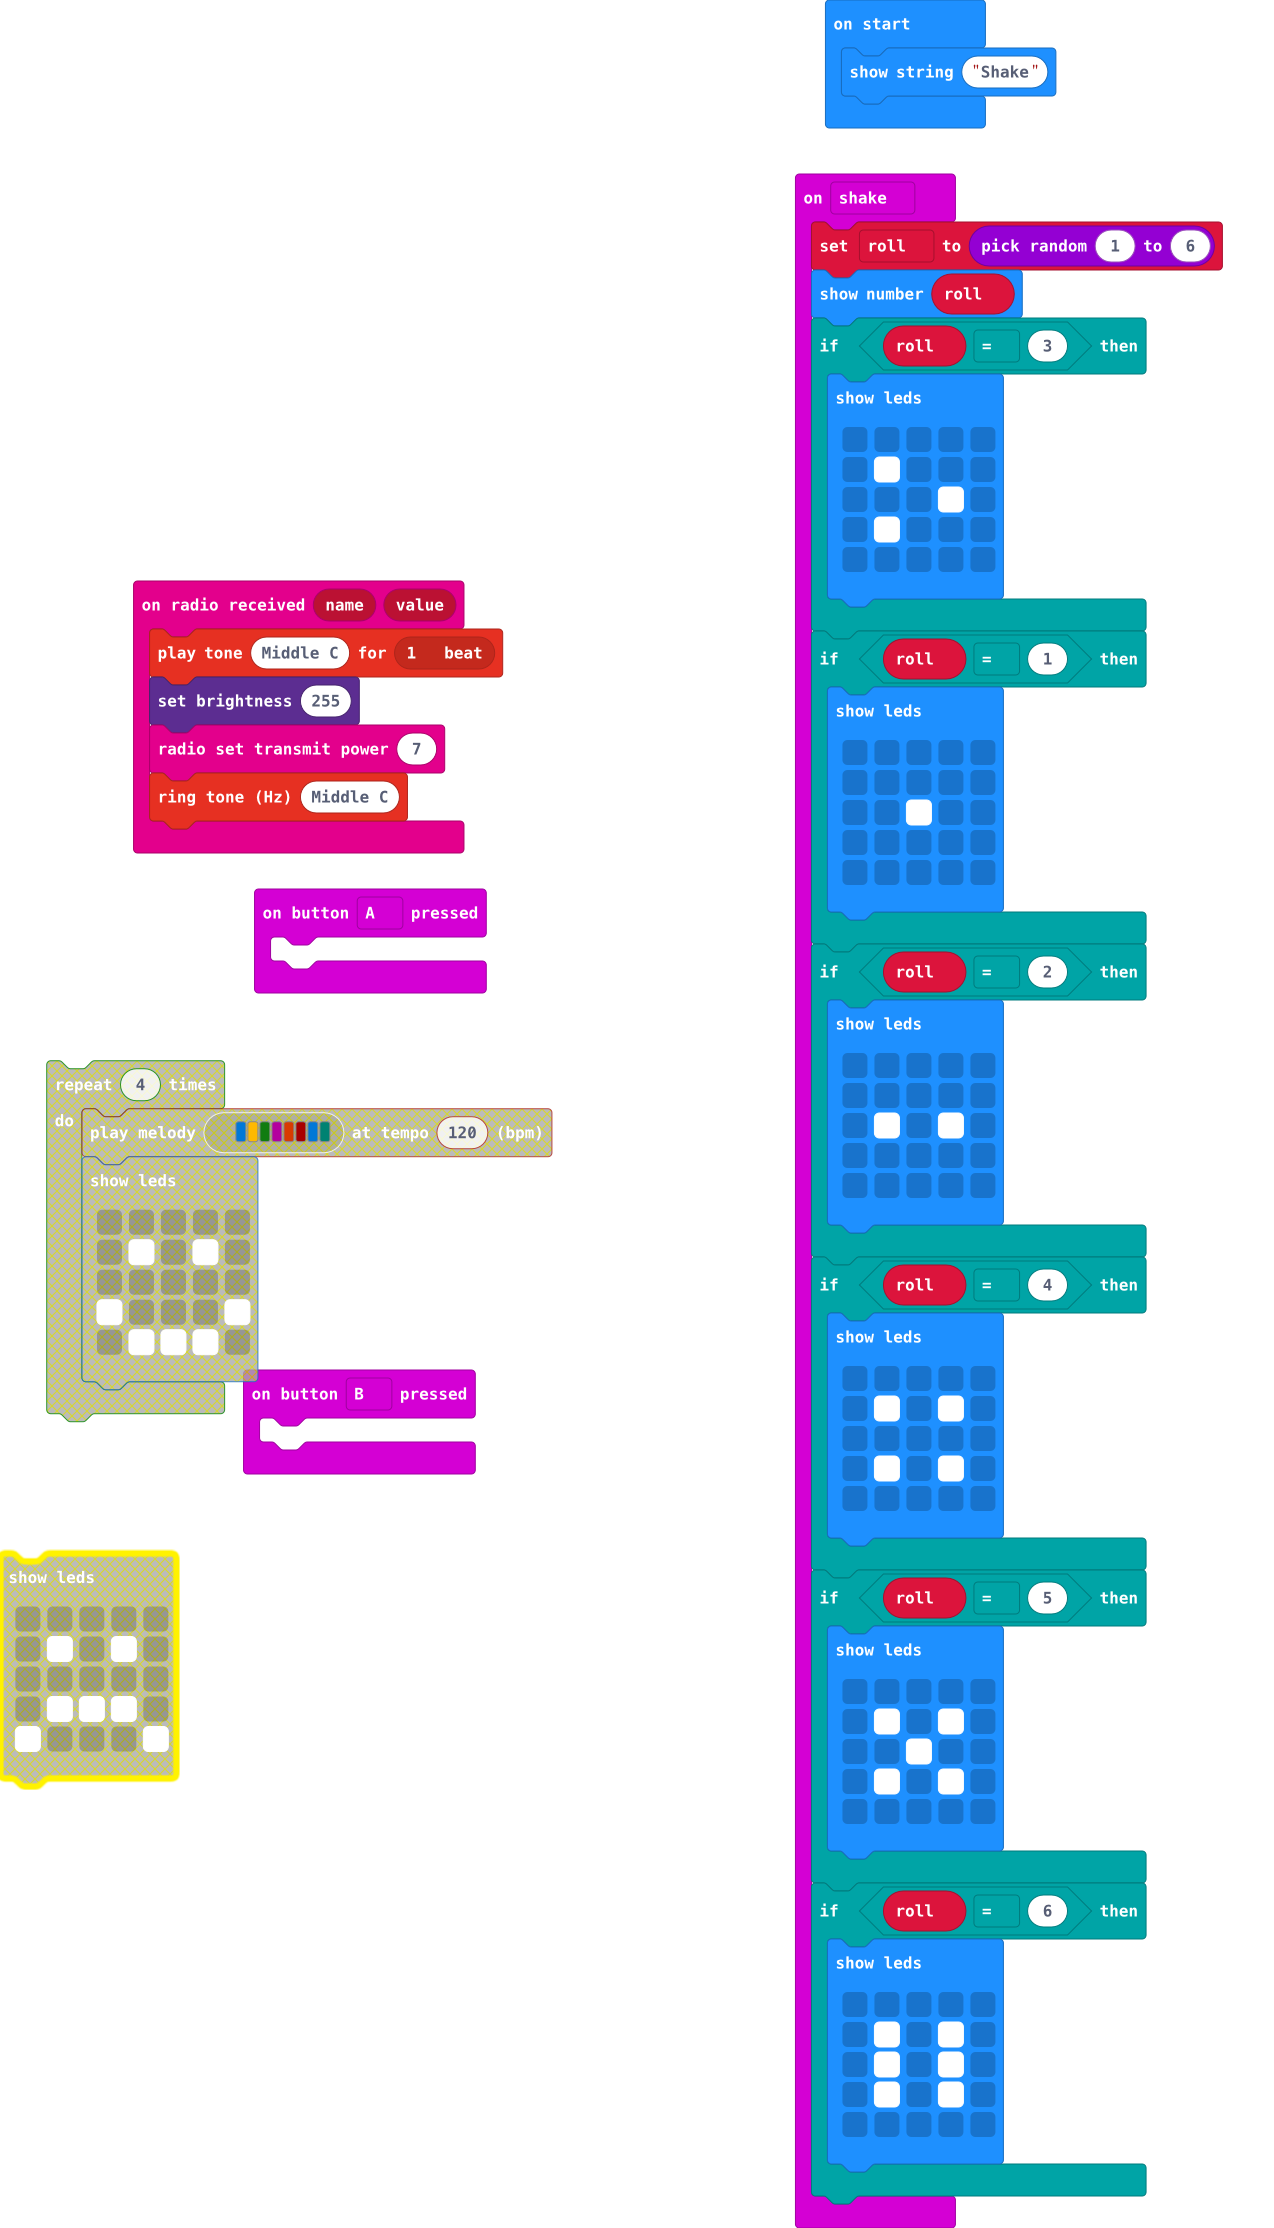
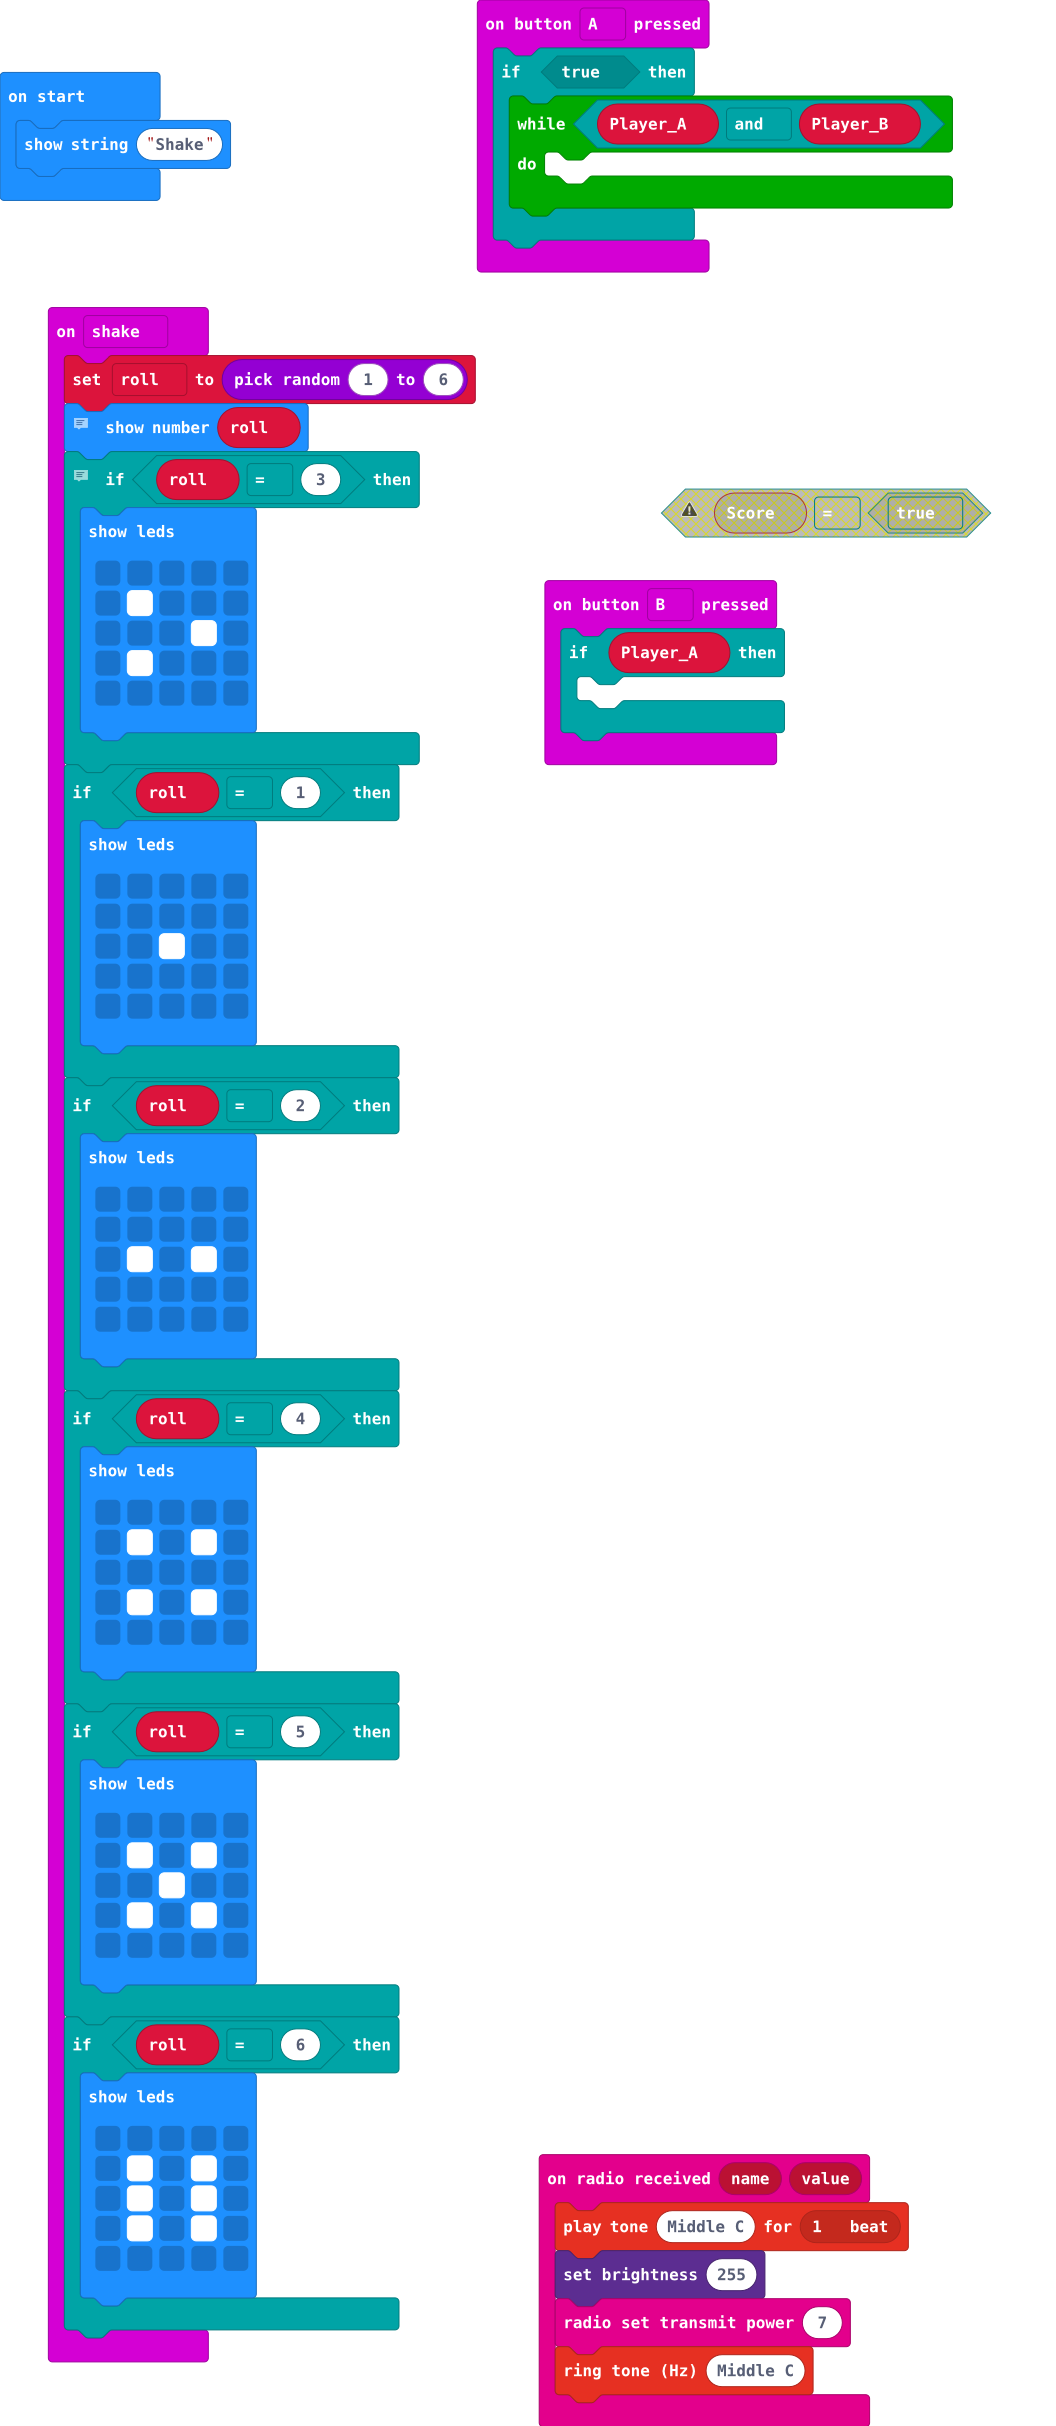
Update pxt.json, main.blocks, main.ts, main.py

diff --git a/main.ts b/main.ts
@@ -1,8 +1,15 @@
 input.onButtonPressed(Button.A, function () {
-	
+    if (true) {
+        let Player_B = 0
+        while (Player_A && Player_B) {
+        	
+        }
+    }
 })
 input.onButtonPressed(Button.B, function () {
-	
+    if (Player_A) {
+    	
+    }
 })
 input.onGesture(Gesture.Shake, function () {
     roll = randint(1, 6)
@@ -71,4 +78,5 @@ radio.onReceivedValue(function (name, value) {
     music.ringTone(262)
 })
 let roll = 0
+let Player_A = 0
 basic.showString("Shake")

diff --git a/main.py b/main.py
@@ -1,0 +1,75 @@
+def on_button_pressed_a():
+    pass
+input.on_button_pressed(Button.A, on_button_pressed_a)
+
+def on_button_pressed_b():
+    Player_A = 0
+    if Player_A:
+        pass
+input.on_button_pressed(Button.B, on_button_pressed_b)
+
+def on_gesture_shake():
+    global roll
+    roll = randint(1, 6)
+    # This is cool. So you will show the Arabic numeral before displaying the dots. Was this on purpose?
+    basic.show_number(roll)
+    # Not a bad approach, but it is generally better to do something like this as a single if/then/else block and to handle each condition in order. It works fine this way because you are evaluating whether a value EQUALS something. It would be harder to do it this way if you were checking something like LESS THAN or GREATER THAN.
+    if roll == 3:
+        basic.show_leds("""
+            . . . . .
+            . # . . .
+            . . . # .
+            . # . . .
+            . . . . .
+            """)
+    if roll == 1:
+        basic.show_leds("""
+            . . . . .
+            . . . . .
+            . . # . .
+            . . . . .
+            . . . . .
+            """)
+    if roll == 2:
+        basic.show_leds("""
+            . . . . .
+            . . . . .
+            . # . # .
+            . . . . .
+            . . . . .
+            """)
+    if roll == 4:
+        basic.show_leds("""
+            . . . . .
+            . # . # .
+            . . . . .
+            . # . # .
+            . . . . .
+            """)
+    if roll == 5:
+        basic.show_leds("""
+            . . . . .
+            . # . # .
+            . . # . .
+            . # . # .
+            . . . . .
+            """)
+    if roll == 6:
+        basic.show_leds("""
+            . . . . .
+            . # . # .
+            . # . # .
+            . # . # .
+            . . . . .
+            """)
+input.on_gesture(Gesture.SHAKE, on_gesture_shake)
+
+def on_received_value(name, value):
+    music.play_tone(262, music.beat(BeatFraction.WHOLE))
+    led.set_brightness(255)
+    radio.set_transmit_power(7)
+    music.ring_tone(262)
+radio.on_received_value(on_received_value)
+
+roll = 0
+basic.show_string("Shake")
